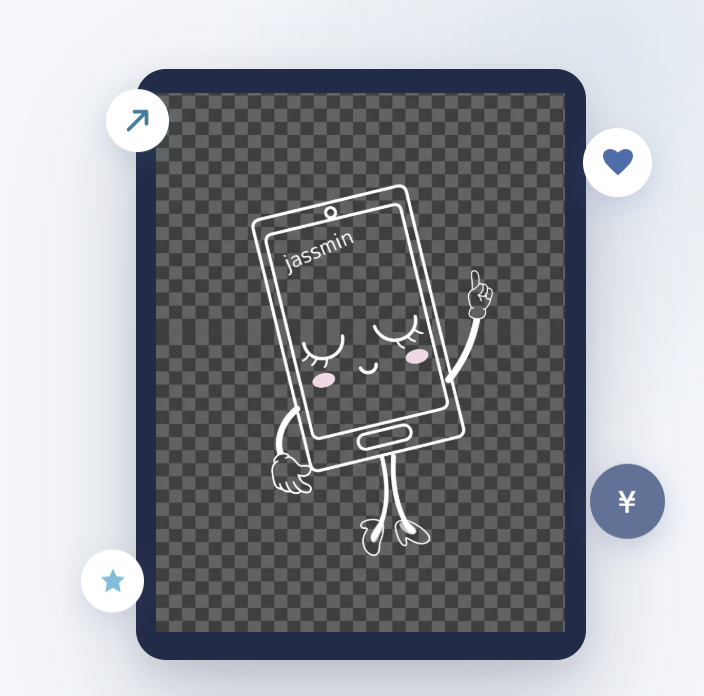
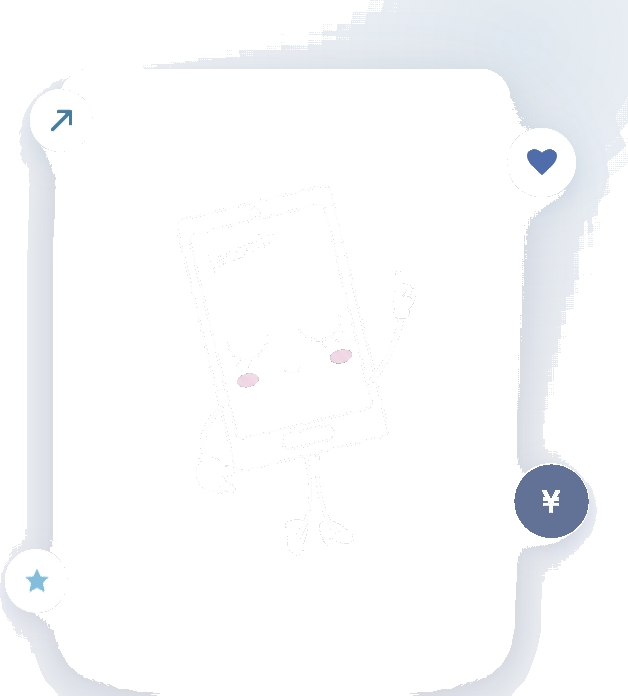
JASSNETLP: マスコットPNGの市松・クリーム敷きを除去
- scripts/fix_jassmin_png.py でグレー台紙を透過化し余白をクロップ
- 画像寸法を628x696に更新（CLS対策のwidth/height）

Made-with: Cursor

diff --git a/index.html b/index.html
@@ -1272,7 +1272,7 @@
           <div class="hero-glow"></div>
           <figure class="hero-mascot">
             <div class="hero-mascot__frame">
-              <img class="hero-mascot__img" src="assets/jassmin-character.png" width="704" height="696" alt="" loading="eager" decoding="async">
+              <img class="hero-mascot__img" src="assets/jassmin-character.png" width="628" height="696" alt="" loading="eager" decoding="async">
             </div>
           </figure>
           <div class="hero-float hero-float--heart">

diff --git a/scripts/fix_jassmin_png.py b/scripts/fix_jassmin_png.py
@@ -1,0 +1,78 @@
+"""
+jassmin-character.png から台紙・市松・グレー背景を除去。
+白線（コア＋アンチエイリアス）とピンクのほっぺは保持。
+"""
+from __future__ import annotations
+
+import sys
+from pathlib import Path
+
+from PIL import Image
+
+
+def is_blush(r: int, g: int, b: int) -> bool:
+    return r >= 175 and g >= 95 and b >= 115 and r > g + 12 and r > b
+
+
+def is_pale_matte(r: int, g: int, b: int) -> bool:
+    mx, mn = max(r, g, b), min(r, g, b)
+    if mx - mn > 22:
+        return False
+    return 232 <= mn <= 247 and mx <= 252
+
+
+def is_white_or_aa(r: int, g: int, b: int) -> bool:
+    """線の白〜アンチエイリアス。クリーム敷きは除外。"""
+    mx, mn = max(r, g, b), min(r, g, b)
+    lum = (r + g + b) / 3
+    if is_blush(r, g, b):
+        return True
+    if mn >= 248:
+        return True
+    if is_pale_matte(r, g, b):
+        return False
+    if mn >= 235 and mx - mn <= 14 and lum >= 232:
+        return True
+    return False
+
+
+def is_gray_bg(r: int, g: int, b: int) -> bool:
+    """市松セル・中間グレー（白線より暗い無彩色）。"""
+    if is_white_or_aa(r, g, b):
+        return False
+    mx, mn = max(r, g, b), min(r, g, b)
+    if mx - mn > 48:
+        return False
+    lum = (r + g + b) / 3
+    return 30 <= lum <= 220
+
+
+def main() -> int:
+    root = Path(__file__).resolve().parents[1]
+    path = root / "assets" / "jassmin-character.png"
+    if not path.exists():
+        print("missing", path, file=sys.stderr)
+        return 1
+
+    img = Image.open(path).convert("RGBA")
+    px = img.load()
+    w, h = img.size
+    n = 0
+    for y in range(h):
+        for x in range(w):
+            r, g, b, a = px[x, y]
+            if a < 12:
+                continue
+            if is_white_or_aa(r, g, b):
+                continue
+            if is_pale_matte(r, g, b) or is_gray_bg(r, g, b):
+                px[x, y] = (0, 0, 0, 0)
+                n += 1
+
+    img.save(path, optimize=True)
+    print(f"OK: {w}x{h}, removed {n} bg pixels -> {path}")
+    return 0
+
+
+if __name__ == "__main__":
+    raise SystemExit(main())
